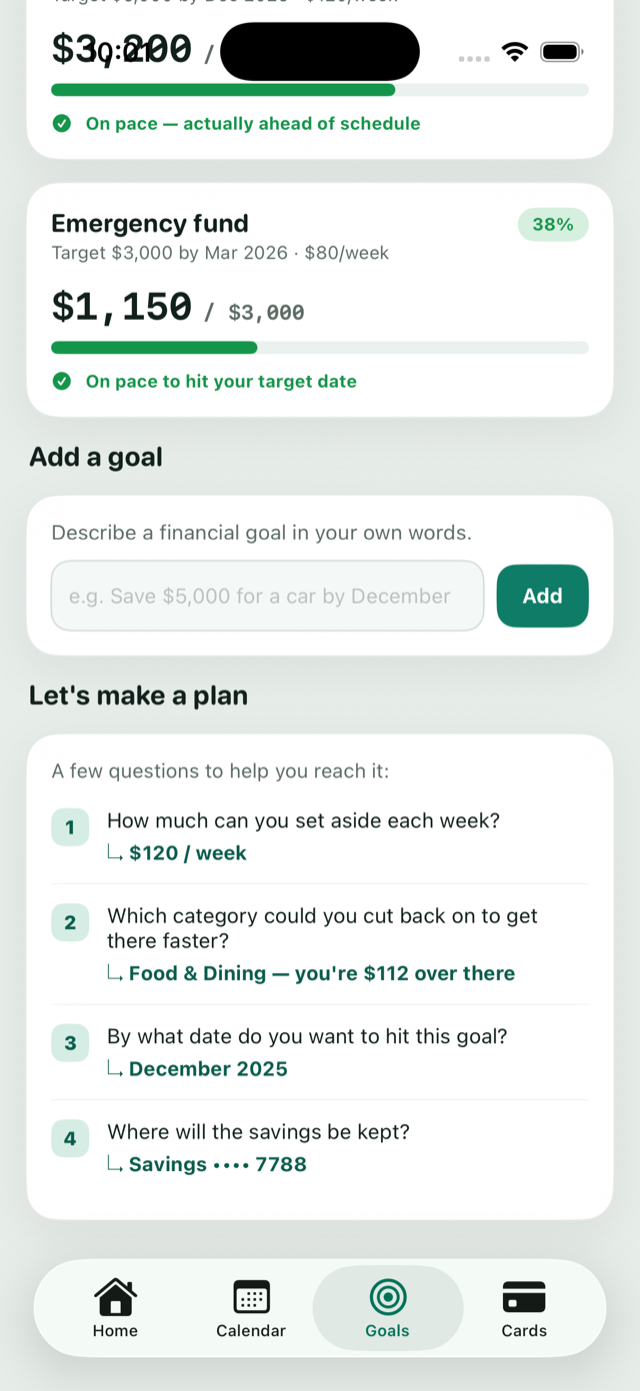
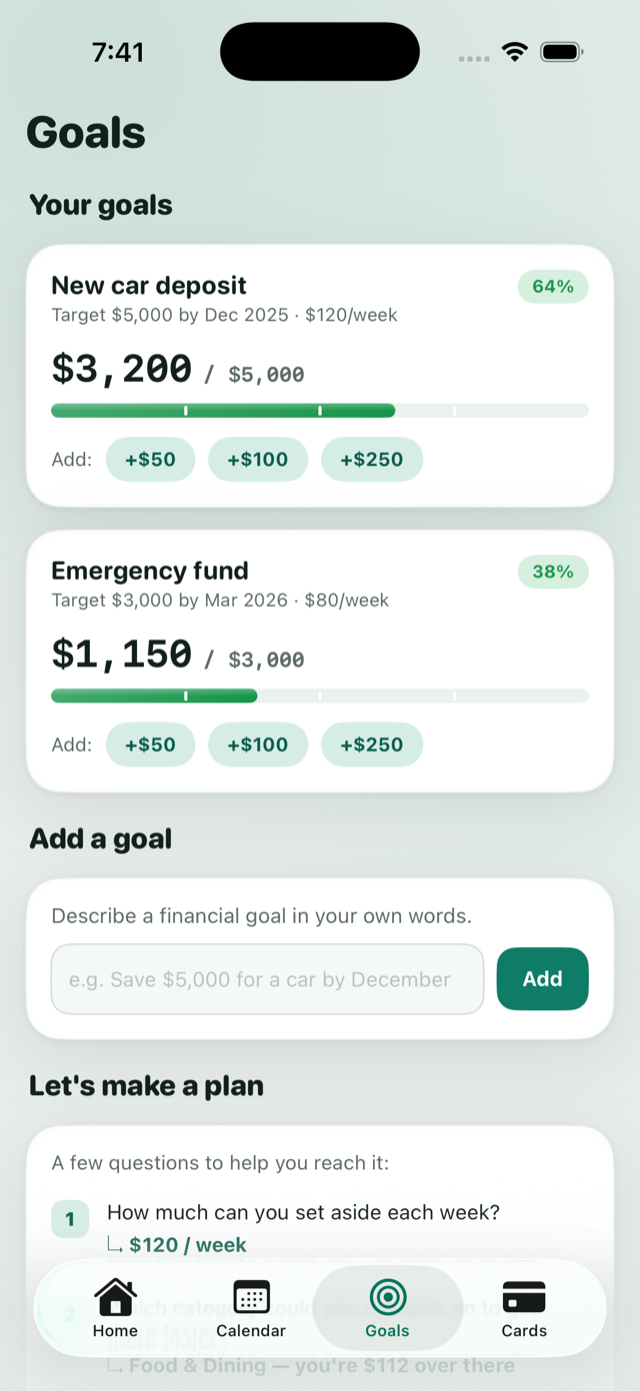
Aesthetic pass: depth, glass, and crisper charts
- Soft gradient wash behind every screen (AppBackground) instead of a flat fill
- Layered card shadows (tight contact + diffuse ambient), softer borders,
  larger continuous radii; pill-style section links
- Hero cards: decorative orb + accent glow, glass-edged chips, colored shadow;
  gradient brand tile in the header
- Bank cards: glossy orbs and sheen so they read as physical plastic
- Charts: segmented donut with hairline gaps; gradient progress bars with a
  top highlight
- Larger, tighter-tracked screen titles
- README screenshots refreshed with the new look

diff --git a/Sightline/Views/Components.swift b/Sightline/Views/Components.swift
@@ -1,5 +1,32 @@
 import SwiftUI
 
+// MARK: - App background (soft gradient wash instead of a flat fill)
+struct AppBackground: View {
+    var body: some View {
+        ZStack {
+            Theme.bg
+            RadialGradient(colors: [Theme.accent.opacity(0.12), .clear],
+                           center: .init(x: 0.15, y: 0.05), startRadius: 0, endRadius: 420)
+            RadialGradient(colors: [Theme.heroAccent.opacity(0.06), .clear],
+                           center: .init(x: 0.95, y: 0.35), startRadius: 0, endRadius: 360)
+        }
+        .ignoresSafeArea()
+    }
+}
+
+// MARK: - Layered card shadow (tight contact + diffuse ambient)
+struct CardShadow: ViewModifier {
+    var strength: CGFloat = 1
+    func body(content: Content) -> some View {
+        content
+            .shadow(color: .black.opacity(0.05 * strength), radius: 2, x: 0, y: 1)
+            .shadow(color: .black.opacity(0.08 * strength), radius: 22, x: 0, y: 12)
+    }
+}
+extension View {
+    func cardShadow(_ strength: CGFloat = 1) -> some View { modifier(CardShadow(strength: strength)) }
+}
+
 // MARK: - Card container
 struct CardBox<Content: View>: View {
     var padding: CGFloat = 16
@@ -9,9 +36,10 @@ struct CardBox<Content: View>: View {
             .padding(padding)
             .frame(maxWidth: .infinity, alignment: .leading)
             .background(Theme.surface)
-            .clipShape(RoundedRectangle(cornerRadius: 20, style: .continuous))
-            .overlay(RoundedRectangle(cornerRadius: 20, style: .continuous).stroke(Theme.line, lineWidth: 1))
-            .shadow(color: Color.black.opacity(0.06), radius: 14, x: 0, y: 8)
+            .clipShape(RoundedRectangle(cornerRadius: Theme.cardRadius, style: .continuous))
+            .overlay(RoundedRectangle(cornerRadius: Theme.cardRadius, style: .continuous)
+                .stroke(Theme.line.opacity(0.7), lineWidth: 1))
+            .cardShadow()
     }
 }
 
@@ -21,16 +49,20 @@ struct SectionHeader: View {
     var link: String? = nil
     var onLink: (() -> Void)? = nil
     var body: some View {
-        HStack {
-            Text(title).font(Theme.display(17)).foregroundStyle(Theme.ink)
+        HStack(alignment: .firstTextBaseline) {
+            Text(title).font(Theme.display(18, .heavy)).tracking(-0.2).foregroundStyle(Theme.ink)
             Spacer()
             if let link {
                 Button(action: { onLink?() }) {
                     Text(link).font(.system(size: 12, weight: .bold)).foregroundStyle(Theme.accentInk)
+                        .padding(.horizontal, 10).padding(.vertical, 5)
+                        .background(Theme.accentSoft.opacity(0.7), in: Capsule())
                 }
+                .buttonStyle(.pressable)
             }
         }
         .padding(.horizontal, 2)
+        .padding(.top, 4)
     }
 }
 
@@ -46,19 +78,28 @@ struct StatusPill: View {
     }
 }
 
-// MARK: - Progress bar
+// MARK: - Progress bar (gradient fill, optional milestone notches)
 struct ProgressBar: View {
     let fraction: Double
     let color: Color
-    var height: CGFloat = 8
+    var height: CGFloat = 9
     var milestones: [Double] = []   // fractions (0–1) to mark with a notch
     @State private var shown: Double = 0
     var body: some View {
         GeometryReader { geo in
             ZStack(alignment: .leading) {
                 Capsule().fill(Theme.surface3)
-                Capsule().fill(color)
+                Capsule()
+                    .fill(LinearGradient(colors: [color.opacity(0.78), color],
+                                         startPoint: .leading, endPoint: .trailing))
                     .frame(width: max(height, geo.size.width * shown))
+                    .overlay(
+                        Capsule().fill(LinearGradient(colors: [.white.opacity(0.28), .clear],
+                                                      startPoint: .top, endPoint: .bottom))
+                            .frame(width: max(height, geo.size.width * shown), height: height / 2)
+                            .offset(y: -height / 4),
+                        alignment: .leading
+                    )
                 ForEach(milestones, id: \.self) { m in
                     Capsule().fill(Theme.surface)
                         .frame(width: 2, height: max(2, height - 3))
@@ -87,8 +128,9 @@ struct StatTile: View {
         .frame(maxWidth: .infinity, alignment: .leading)
         .padding(12)
         .background(Theme.surface)
-        .clipShape(RoundedRectangle(cornerRadius: 16, style: .continuous))
-        .overlay(RoundedRectangle(cornerRadius: 16, style: .continuous).stroke(Theme.line, lineWidth: 1))
+        .clipShape(RoundedRectangle(cornerRadius: 18, style: .continuous))
+        .overlay(RoundedRectangle(cornerRadius: 18, style: .continuous).stroke(Theme.line.opacity(0.7), lineWidth: 1))
+        .cardShadow(0.6)
     }
 }
 
@@ -121,13 +163,13 @@ struct Screen<Content: View>: View {
     var body: some View {
         ScrollView {
             VStack(alignment: .leading, spacing: 14) {
-                Text(title).font(Theme.display(26, .heavy)).foregroundStyle(Theme.ink)
+                Text(title).font(Theme.display(28, .heavy)).tracking(-0.4).foregroundStyle(Theme.ink)
                     .padding(.top, 4)
                 content
             }
             .padding(.horizontal, 16)
             .padding(.bottom, 24)
         }
-        .background(Theme.bg)
+        .background(AppBackground())
     }
 }

diff --git a/Sightline/Views/HomeView.swift b/Sightline/Views/HomeView.swift
@@ -30,9 +30,12 @@ struct HomeView: View {
                 HStack {
                     HStack(spacing: 9) {
                         Text("S").font(Theme.display(16, .heavy)).foregroundStyle(.white)
-                            .frame(width: 30, height: 30)
-                            .background(Theme.accent, in: RoundedRectangle(cornerRadius: 9, style: .continuous))
-                        Text("Sightline").font(Theme.display(22, .heavy)).foregroundStyle(Theme.ink)
+                            .frame(width: 32, height: 32)
+                            .background(Theme.heroGradient, in: RoundedRectangle(cornerRadius: 10, style: .continuous))
+                            .overlay(RoundedRectangle(cornerRadius: 10, style: .continuous)
+                                .stroke(.white.opacity(0.25), lineWidth: 1))
+                            .shadow(color: Theme.heroTop.opacity(0.35), radius: 8, y: 4)
+                        Text("Sightline").font(Theme.display(23, .heavy)).tracking(-0.5).foregroundStyle(Theme.ink)
                     }
                     Spacer(minLength: 6)
                     Button { Haptics.light(); showConnection = true } label: { SourceBadge() }
@@ -83,7 +86,7 @@ struct HomeView: View {
             .padding(.horizontal, 16)
             .padding(.bottom, 24)
         }
-        .background(Theme.bg)
+        .background(AppBackground())
         .refreshable {
             Haptics.select()
             await store.load()
@@ -145,17 +148,29 @@ struct HomeView: View {
         .padding(20)
         .frame(maxWidth: .infinity, alignment: .leading)
         .background(Theme.heroGradient)
-        .clipShape(RoundedRectangle(cornerRadius: 24, style: .continuous))
+        // Decorative light: a soft glow top-left and a translucent orb top-right.
+        .overlay(alignment: .topTrailing) {
+            Circle().fill(.white.opacity(0.07)).frame(width: 190, height: 190).offset(x: 60, y: -80)
+        }
+        .overlay(alignment: .topLeading) {
+            RadialGradient(colors: [Theme.heroAccent.opacity(0.35), .clear],
+                           center: .center, startRadius: 0, endRadius: 170)
+                .frame(width: 340, height: 340).offset(x: -110, y: -140)
+        }
+        .clipShape(RoundedRectangle(cornerRadius: 28, style: .continuous))
+        .overlay(RoundedRectangle(cornerRadius: 28, style: .continuous).stroke(.white.opacity(0.12), lineWidth: 1))
+        .shadow(color: Theme.heroTop.opacity(0.35), radius: 24, x: 0, y: 14)
     }
 
     private func heroChip(_ k: String, _ v: String) -> some View {
         VStack(alignment: .leading, spacing: 3) {
-            Text(k).font(.system(size: 10.5)).foregroundStyle(.white.opacity(0.85))
+            Text(k).font(.system(size: 10.5, weight: .medium)).foregroundStyle(.white.opacity(0.82))
             Text(v).font(Theme.mono(16)).foregroundStyle(.white)
         }
         .frame(maxWidth: .infinity, alignment: .leading)
         .padding(.horizontal, 12).padding(.vertical, 10)
         .background(.white.opacity(0.14), in: RoundedRectangle(cornerRadius: 14, style: .continuous))
+        .overlay(RoundedRectangle(cornerRadius: 14, style: .continuous).stroke(.white.opacity(0.22), lineWidth: 1))
     }
 
     private func healthCard(_ snap: FinanceSnapshot) -> some View {

diff --git a/Sightline/Views/CardsView.swift b/Sightline/Views/CardsView.swift
@@ -71,8 +71,20 @@ struct BankCardView: View {
         .padding(18)
         .frame(maxWidth: .infinity, alignment: .leading)
         .background(LinearGradient(colors: gradient, startPoint: .topLeading, endPoint: .bottomTrailing))
-        .clipShape(RoundedRectangle(cornerRadius: 20, style: .continuous))
-        .shadow(color: .black.opacity(0.15), radius: 12, x: 0, y: 6)
+        // Glossy highlights so the cards read as physical plastic.
+        .overlay(alignment: .topTrailing) {
+            Circle().fill(.white.opacity(0.08)).frame(width: 170, height: 170).offset(x: 50, y: -70)
+        }
+        .overlay(alignment: .bottomLeading) {
+            Circle().fill(.white.opacity(0.05)).frame(width: 220, height: 220).offset(x: -90, y: 110)
+        }
+        .overlay(
+            LinearGradient(colors: [.white.opacity(0.10), .clear, .clear],
+                           startPoint: .topLeading, endPoint: .bottomTrailing)
+        )
+        .clipShape(RoundedRectangle(cornerRadius: 22, style: .continuous))
+        .overlay(RoundedRectangle(cornerRadius: 22, style: .continuous).stroke(.white.opacity(0.14), lineWidth: 1))
+        .shadow(color: .black.opacity(0.18), radius: 18, x: 0, y: 10)
     }
 
     private func cardStat(_ k: String, _ v: String, alignment: HorizontalAlignment = .leading) -> some View {

diff --git a/Sightline/Views/Charts.swift b/Sightline/Views/Charts.swift
@@ -40,9 +40,13 @@ struct DonutBreakdown: View {
     var body: some View {
         HStack(spacing: 16) {
             ZStack {
+                // Segmented look: a hairline gap between slices (flat caps so small
+                // slices stay crisp instead of bulging into their neighbours).
                 ForEach(segments()) { seg in
+                    let gap: CGFloat = 0.006
+                    let end = seg.start + (seg.end - seg.start) * progress
                     Circle()
-                        .trim(from: seg.start, to: seg.start + (seg.end - seg.start) * progress)
+                        .trim(from: min(seg.start + gap, end), to: max(end - gap, seg.start + gap))
                         .stroke(seg.color, style: StrokeStyle(lineWidth: 16, lineCap: .butt))
                         .rotationEffect(.degrees(-90))
                 }

diff --git a/Sightline/Views/CalendarView.swift b/Sightline/Views/CalendarView.swift
@@ -91,7 +91,12 @@ struct CalendarView: View {
         .padding(20)
         .frame(maxWidth: .infinity, alignment: .leading)
         .background(Theme.heroGradient)
-        .clipShape(RoundedRectangle(cornerRadius: 24, style: .continuous))
+        .overlay(alignment: .topTrailing) {
+            Circle().fill(.white.opacity(0.07)).frame(width: 170, height: 170).offset(x: 55, y: -75)
+        }
+        .clipShape(RoundedRectangle(cornerRadius: 28, style: .continuous))
+        .overlay(RoundedRectangle(cornerRadius: 28, style: .continuous).stroke(.white.opacity(0.12), lineWidth: 1))
+        .shadow(color: Theme.heroTop.opacity(0.32), radius: 22, x: 0, y: 12)
     }
 
     /// Days-in-month and the Monday-based offset of the 1st.

diff --git a/Sightline/Theme.swift b/Sightline/Theme.swift
@@ -51,6 +51,10 @@ enum Theme {
     static var heroGradient: LinearGradient {
         LinearGradient(colors: [heroTop, heroBottom], startPoint: .topLeading, endPoint: .bottomTrailing)
     }
+    static let heroAccent = Color(hex: "3ACAA4")   // soft highlight glow on the hero
+
+    // Shape language
+    static let cardRadius: CGFloat = 22
 
     // Type
     static func display(_ size: CGFloat, _ weight: Font.Weight = .bold) -> Font {
